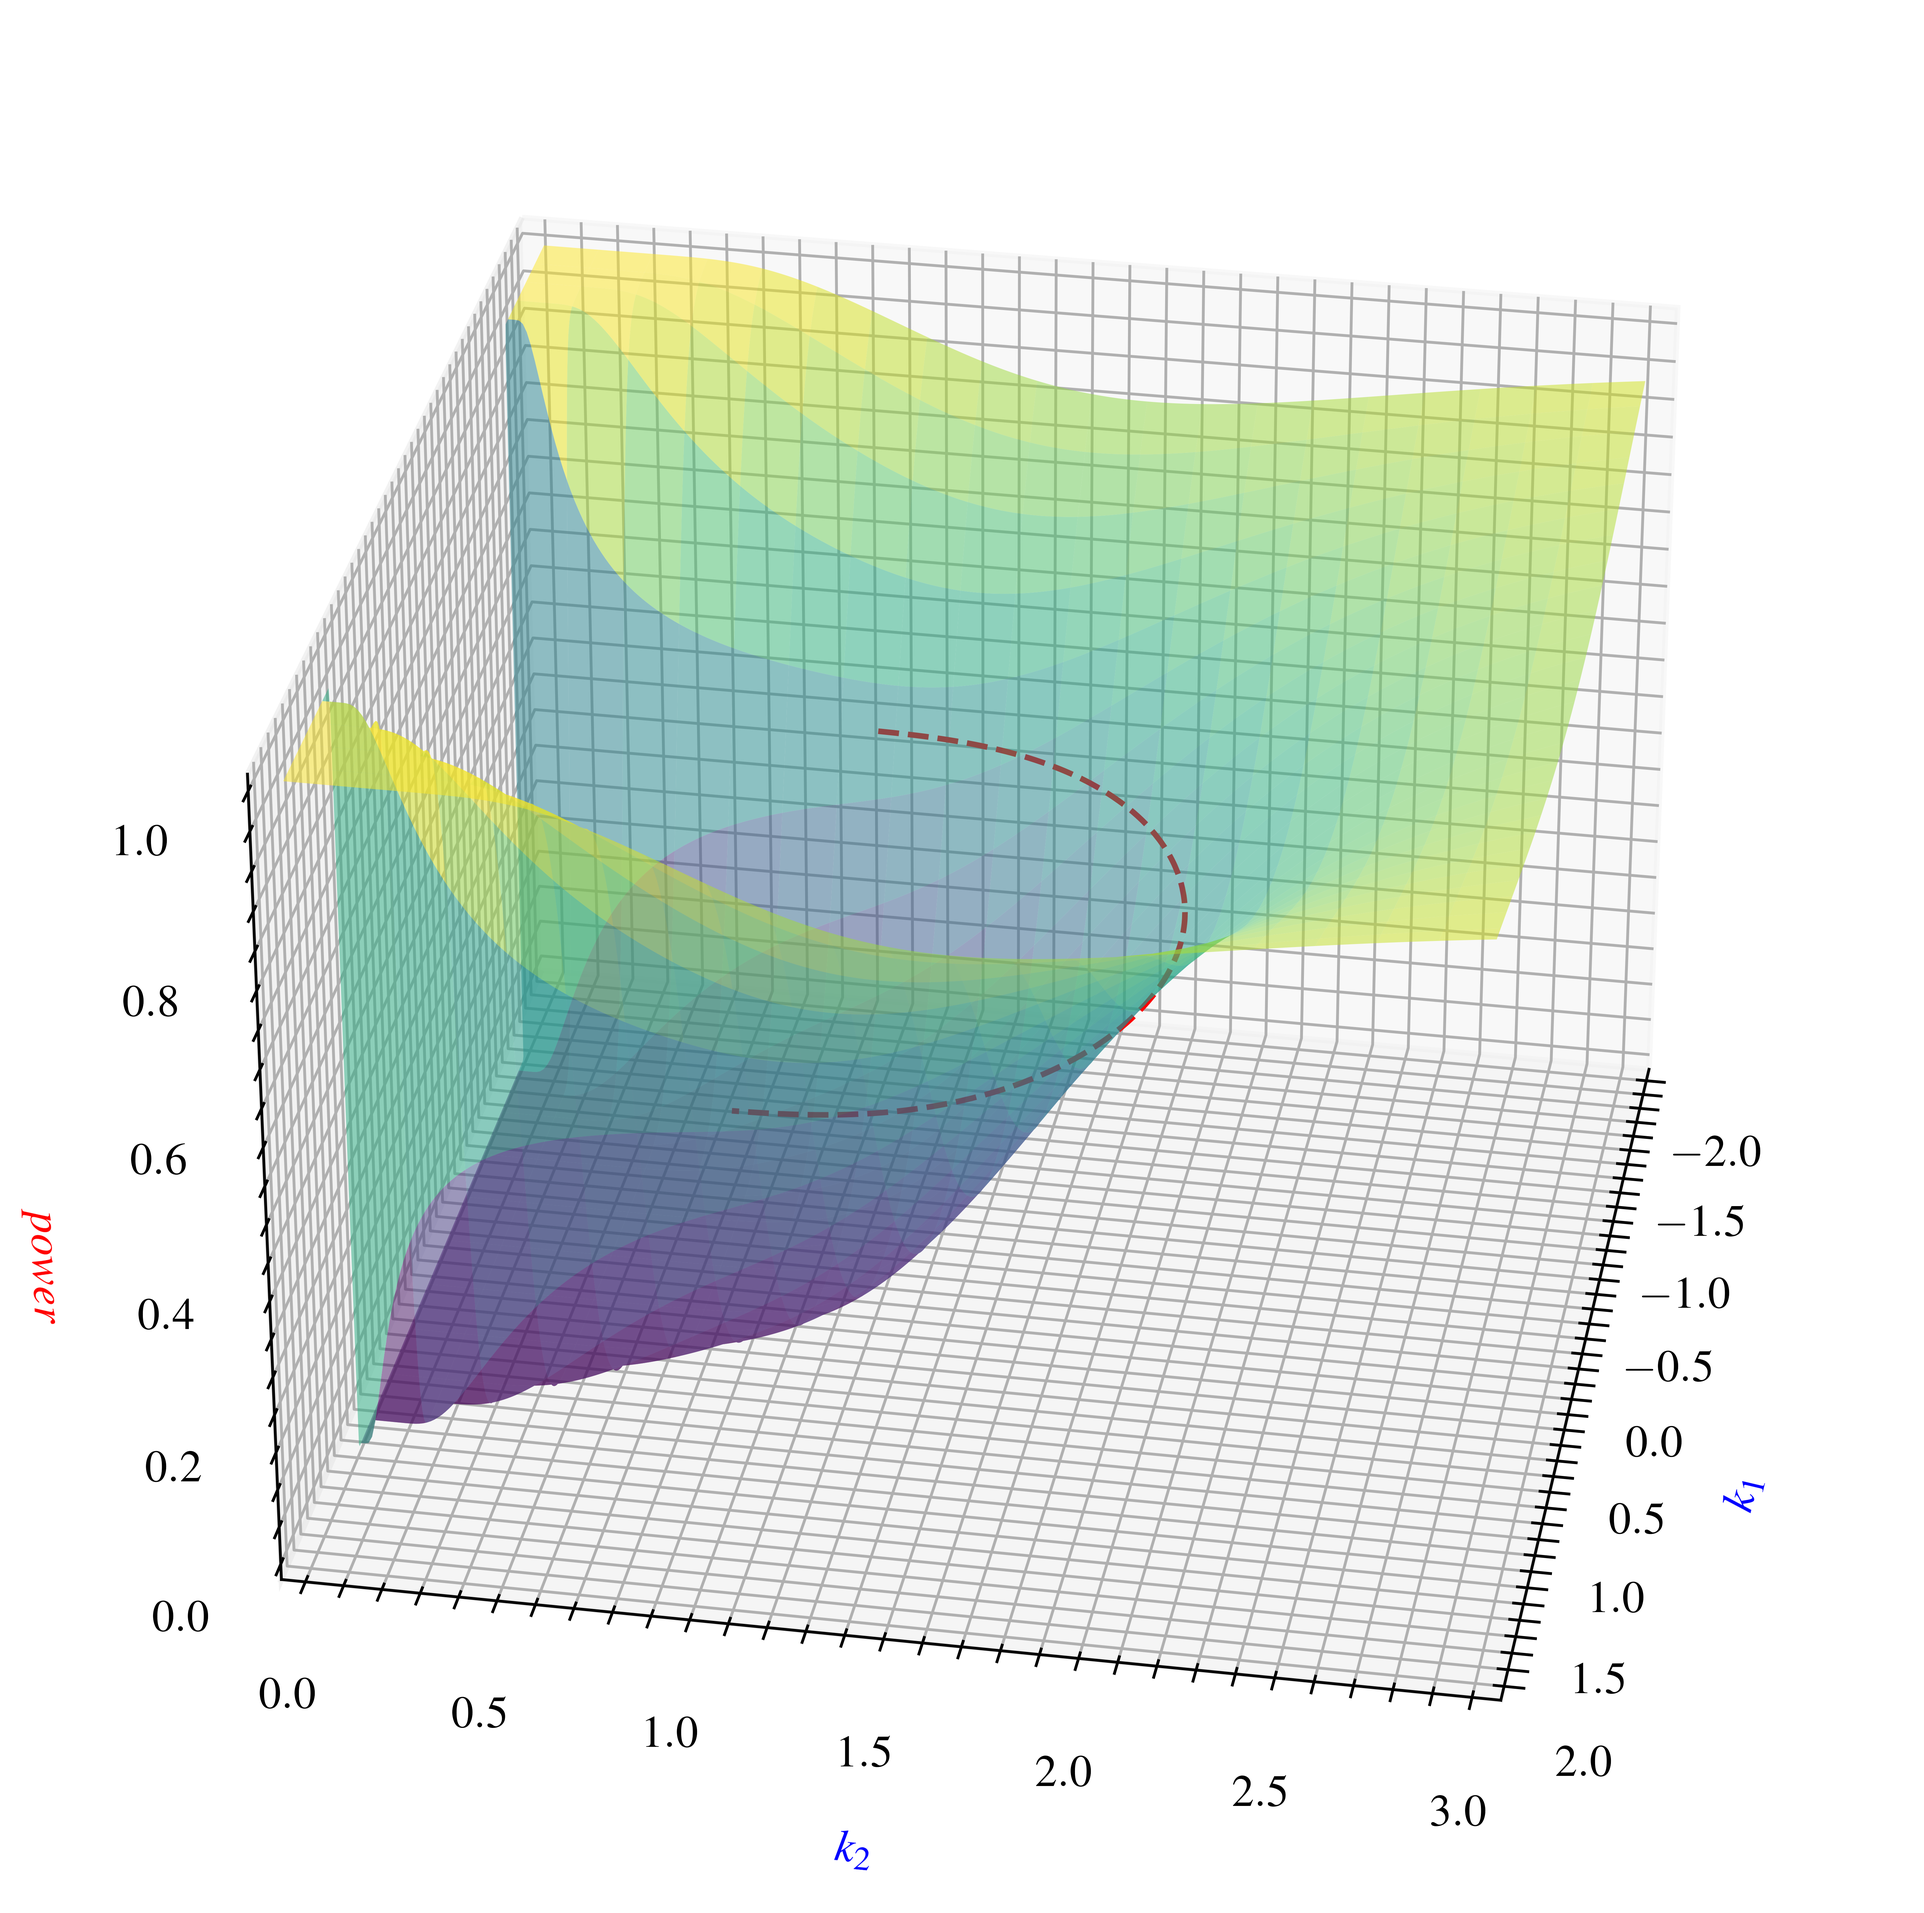
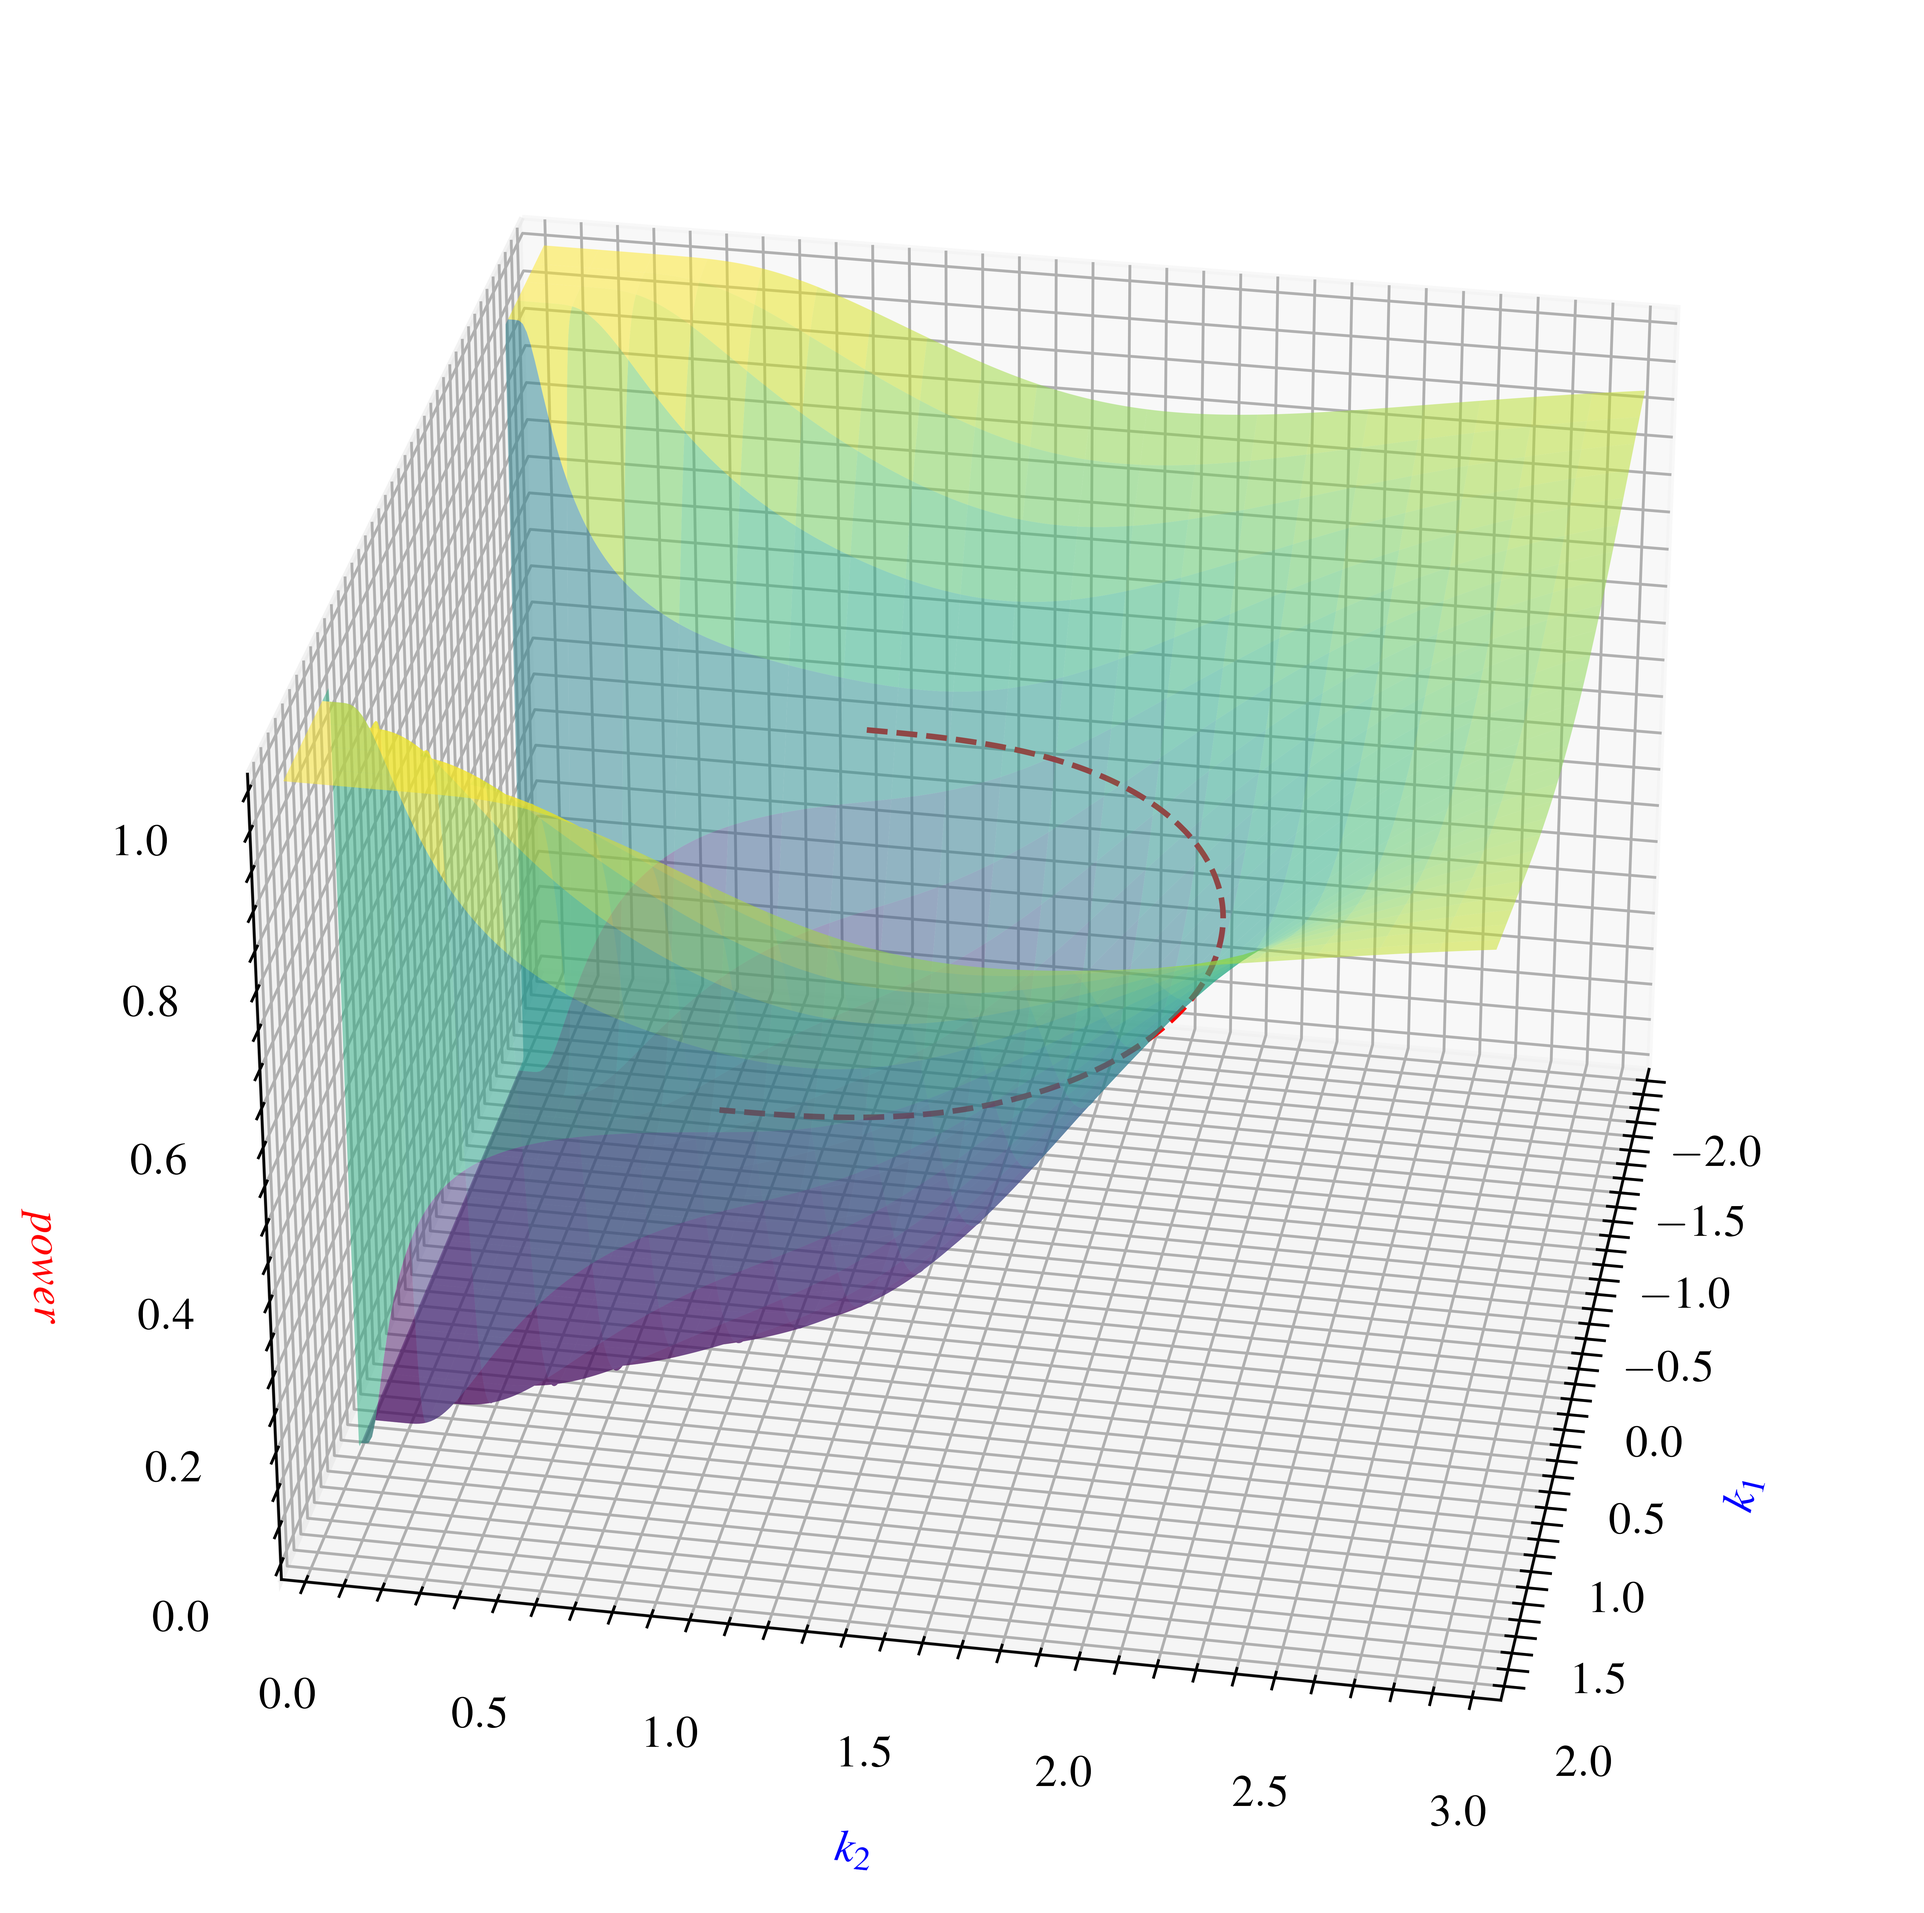
s chart to s-bar chart

diff --git a/dypro/dynamic/var_change.py b/dypro/dynamic/var_change.py
@@ -32,10 +32,8 @@ class NormalSChange:
     """S chart dynamic process with variance change under normal distribution."""
 
     def beta(self, k2, n, alpha):
-        B6 = F.c4(n) + 3 * np.sqrt(1 - F.c4(n) ** 2)
-        B5 = np.maximum(0, F.c4(n) - 3 * np.sqrt(1 - F.c4(n) ** 2))
-        UCL = B6 * np.sqrt(n - 1) / (k2)
-        LCL = B5 * np.sqrt(n - 1) / (k2)
+        UCL = F.B4(n) * np.sqrt(n - 1) / (k2)
+        LCL = F.B3(n) * np.sqrt(n - 1) / (k2)
 
         return chi.cdf(UCL, n - 1) - chi.cdf(LCL, n - 1)
 
